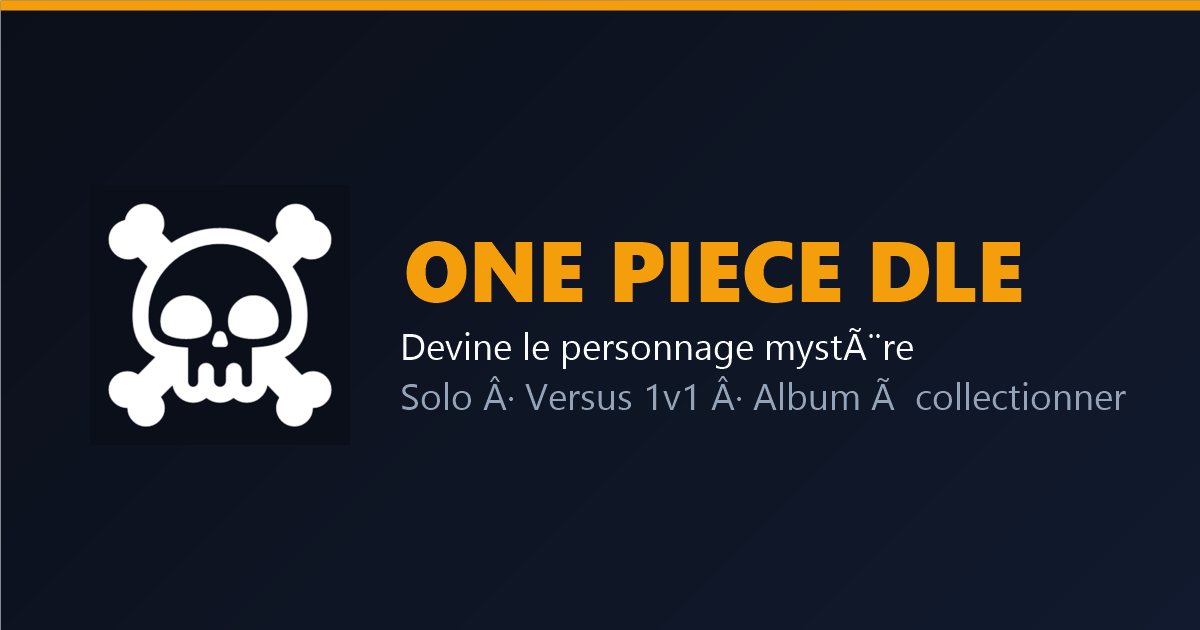
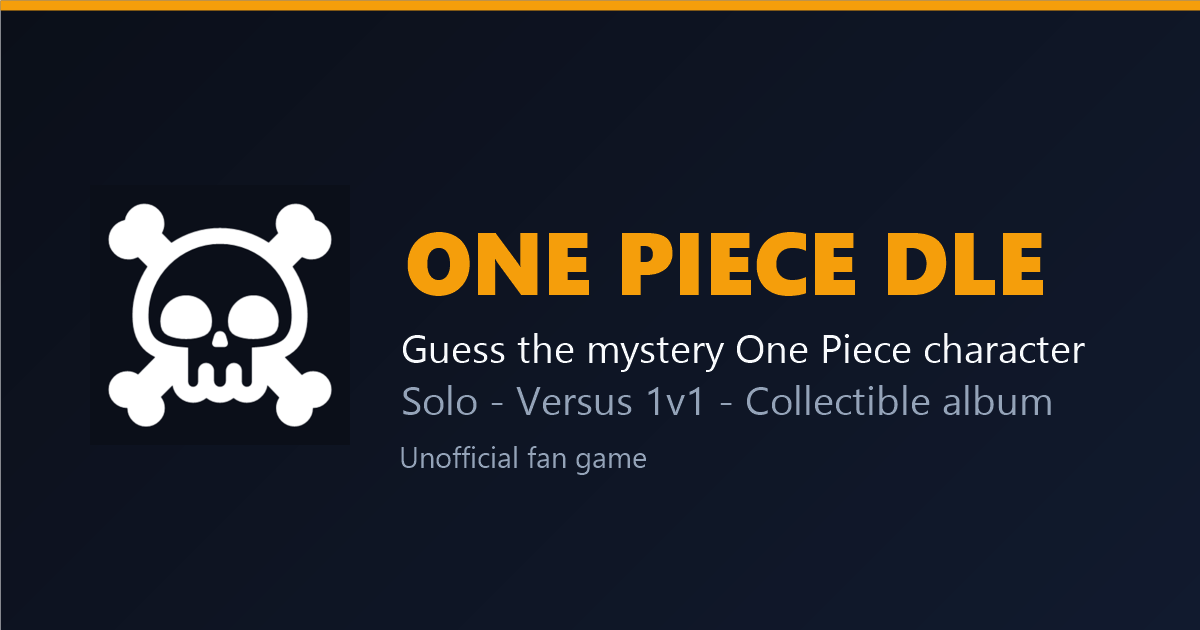
SEO : OG image EN, canonical, JSON-LD, robots.txt, sitemap.xml, accessibilité

Changed region(s): [[0.3392, 0.3619, 0.8942, 0.4825], [0.3392, 0.5127, 0.925, 0.6635], [0.3392, 0.6937, 0.555, 0.754]]

diff --git a/index.html b/index.html
@@ -4,23 +4,39 @@
   <meta charset="UTF-8">
   <meta name="viewport" content="width=device-width, initial-scale=1.0, viewport-fit=cover">
   <title>One Piece DLE — Unlimited</title>
-  <meta name="description" content="OPDLE: guess the mystery One Piece character from clues (bounty, devil fruit, haki, arc…). Solo, 1v1 versus local & online, collectible album. Unofficial fan game.">
+  <meta name="description" content="OPDLE: guess the mystery One Piece character from clues (bounty, devil fruit, haki, arc...). Solo, 1v1 versus local & online, collectible album. Unofficial fan game.">
+  <link rel="canonical" href="https://slasher-zip.github.io/OnePieceDLE/">
+  <meta name="robots" content="index, follow, max-image-preview:large">
+  <meta name="author" content="OPDLE">
+  <meta name="keywords" content="One Piece, DLE, guessing game, daily game, anime, manga, OPDLE, One Piece DLE">
+  <meta name="application-name" content="OPDLE">
   <!-- Tab icon + sharing -->
   <link rel="icon" href="favicon.ico?v=2" sizes="any">
   <link rel="icon" type="image/svg+xml" href="favicon.svg?v=2">
   <link rel="apple-touch-icon" href="apple-touch-icon.png?v=2">
   <link rel="manifest" href="site.webmanifest?v=2">
   <meta name="theme-color" content="#0b0f19">
+  <meta name="apple-mobile-web-app-capable" content="yes">
+  <meta name="mobile-web-app-capable" content="yes">
+  <meta name="apple-mobile-web-app-title" content="OPDLE">
+  <meta name="apple-mobile-web-app-status-bar-style" content="black-translucent">
+  <!-- Open Graph -->
   <meta property="og:type" content="website">
   <meta property="og:site_name" content="OPDLE">
+  <meta property="og:locale" content="en_US">
   <meta property="og:title" content="One Piece DLE — Unlimited">
   <meta property="og:description" content="Guess the mystery One Piece character from clues. Solo, 1v1 versus and a collectible album.">
   <meta property="og:url" content="https://slasher-zip.github.io/OnePieceDLE/">
-  <meta property="og:image" content="https://slasher-zip.github.io/OnePieceDLE/og-image.png?v=2">
+  <meta property="og:image" content="https://slasher-zip.github.io/OnePieceDLE/og-image.png?v=3">
+  <meta property="og:image:width" content="1200">
+  <meta property="og:image:height" content="630">
+  <meta property="og:image:alt" content="OPDLE — One Piece DLE, guess the mystery character">
+  <!-- Twitter -->
   <meta name="twitter:card" content="summary_large_image">
   <meta name="twitter:title" content="One Piece DLE — Unlimited">
   <meta name="twitter:description" content="Guess the mystery One Piece character from clues.">
-  <meta name="twitter:image" content="https://slasher-zip.github.io/OnePieceDLE/og-image.png?v=2">
+  <meta name="twitter:image" content="https://slasher-zip.github.io/OnePieceDLE/og-image.png?v=3">
+  <meta name="twitter:image:alt" content="OPDLE — One Piece DLE">
   <!-- Tailwind compilé en local (voir BUILD.txt pour régénérer) -->
   <link rel="stylesheet" href="tailwind.css">
   <link rel="preconnect" href="https://fonts.googleapis.com">
@@ -45,9 +61,34 @@
     .character-cell { min-height: 92px !important; }
     select option { background: #1e293b; color: #f1f5f9; }
 </style>
+  <script type="application/ld+json">
+  {
+    "@context": "https://schema.org",
+    "@type": "WebApplication",
+    "name": "One Piece DLE — Unlimited",
+    "alternateName": "OPDLE",
+    "url": "https://slasher-zip.github.io/OnePieceDLE/",
+    "description": "Guess the mystery One Piece character from clues. Solo, 1v1 versus and a collectible album. Unofficial fan game.",
+    "applicationCategory": "GameApplication",
+    "operatingSystem": "Any",
+    "browserRequirements": "Requires JavaScript",
+    "inLanguage": "en",
+    "isAccessibleForFree": true,
+    "offers": { "@type": "Offer", "price": "0", "priceCurrency": "USD" },
+    "image": "https://slasher-zip.github.io/OnePieceDLE/og-image.png?v=3",
+    "screenshot": "https://slasher-zip.github.io/OnePieceDLE/og-image.png?v=3",
+    "author": { "@type": "Organization", "name": "OPDLE" }
+  }
+  </script>
 </head>
 
 <body class="min-h-screen flex flex-col items-center justify-start px-4 sm:px-6 pt-0 pb-4 sm:pb-6 bg-[#0b0f19] text-gray-100">
+  <a href="#guessInput" class="skip-link">Skip to the game</a>
+  <noscript>
+    <p style="margin:12px auto;max-width:640px;padding:12px 16px;border-radius:12px;background:#7f1d1d;color:#fff;font-family:sans-serif;text-align:center">
+      OPDLE needs JavaScript to run. Please enable JavaScript in your browser.
+    </p>
+  </noscript>
   <!-- Barre admin (tests) -->
     
 
@@ -201,7 +242,7 @@
       ></div>
     </div>
 
-    <div id="toast" class="hidden bg-red-500/90 text-white font-semibold px-4 py-2 rounded-xl shadow-lg transition-all duration-300 text-sm"></div>
+    <div id="toast" role="status" aria-live="polite" class="hidden bg-red-500/90 text-white font-semibold px-4 py-2 rounded-xl shadow-lg transition-all duration-300 text-sm"></div>
 
     <div class="flex flex-wrap justify-center gap-2 text-[11px] sm:text-xs text-slate-300">
       <div class="legend-chip"><span class="w-2.5 h-2.5 rounded-full bg-emerald-600 inline-block"></span> <span id="legCorrect">Correct</span></div>

diff --git a/styles.css b/styles.css
@@ -1143,3 +1143,22 @@ html.light #storyHelpBtn.help-toggle[aria-expanded="true"] {
   #topNav .icon-btn { width: 40px; height: 40px; font-size: 1.05rem; }
   .guess-cell-label { font-size: 0.65rem !important; letter-spacing: 0.04em; }
 }
+
+/* Accessibilité : focus clavier visible + lien d'évitement */
+:focus-visible {
+  outline: 2px solid #f59e0b;
+  outline-offset: 2px;
+  border-radius: 6px;
+}
+.skip-link {
+  position: absolute;
+  left: -9999px;
+  top: 0;
+  z-index: 200;
+  padding: 10px 16px;
+  background: #f59e0b;
+  color: #0b0f19;
+  font-weight: 800;
+  border-radius: 0 0 12px 0;
+}
+.skip-link:focus { left: 0; }
